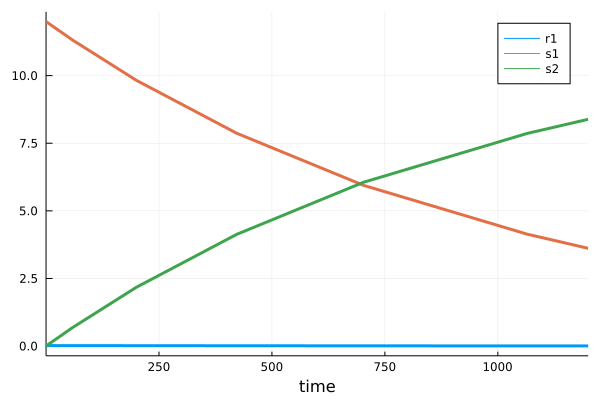
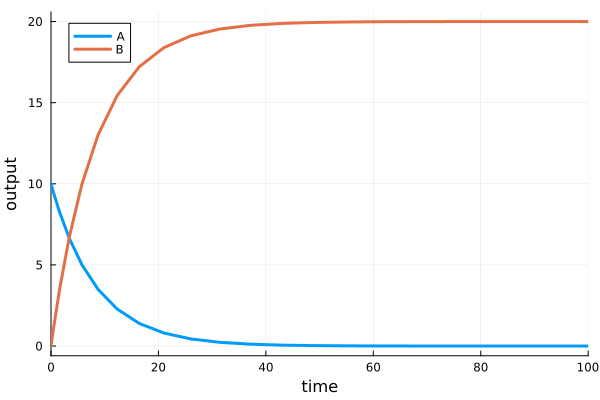
update readme

diff --git a/README.md b/README.md
@@ -7,99 +7,93 @@
 
 # HetaSimulator
 
-**HetaSimulator** is an open-source simulation and parameters estimation (fitting) platform for the [Heta modeling language](https://hetalang.github.io/#/). 
-The main purpose of the package is to establish the linkage between emerging [QSP frameworks](https://en.wikipedia.org/wiki/Quantitative_systems_pharmacology) and fast computational methods (parallel simulations, automatic differentiation, etc.).
+**HetaSimulator** is a Julia‑based simulation engine for models written
+in the [Heta modeling language](https://hetalang.github.io).\
+It is part of the **Heta project** and enables fast
+simulations and analysis using the Julia [SciML](https://sciml.ai/)
+ecosystem.
 
-The latest documentation can be found here: <https://hetalang.github.io/HetaSimulator.jl/stable/>.
+📚 **Full documentation:**\
+<https://hetalang.github.io/HetaSimulator.jl/stable>
 
-See the [ROAD MAP](./roadmap.md) for upcoming updates.
+## Quick start
 
-## Introduction
+The example below creates a simple reaction model and runs a simulation.
 
-Heta language is a domain-specific modeling language (DSL) for dynamic models used in quantitative systems pharmacology (QSP) and systems biology (SB). Heta models can be translated into [variety of formats](https://hetalang.github.io/#/heta-compiler/?id=supported-tools) like Simbiology, Matlab, mrgsolve, DBSolve and many others.
+### 1. Create a project directory
+`
+Create a new directory called **heta-simulation**
 
-This package provides the Julia-based simulation engine for Heta-based models and modeling platforms. Users can simulate QSP models in heta format as well as ODE systems in general form using HetaSimulator without additional tools.
+### 2. Create a model file
 
-Internally HetaSimulator utilizes the features of open-source software like [Julia](https://julialang.org/) and [SciML ecosystem](https://sciml.ai/).
-
-## Installation
-
-It is assumed that you have **Julia** installed. The latest Julia release can be downloaded from [julialang.org](https://julialang.org/downloads/)
-
-To install or update HetaSimulator and heta-compiler run the code below in Julia environment:
-
-```julia
-julia> ]
-pkg> add HetaSimulator
-```
-Notes:
- - Internally HetaSimulator installs Heta compiler as an artifact. 
- - In some MacOS versions, the installation of the package may require Rosetta, use `softwareupdate --install-rosetta` in terminal.
-
-## Basic usage
-
-Create a model in Heta format or use your Heta-based platform.
-Here we will use a simple model with two species and one reaction.
+Create a file **`index.heta`** inside the directory:
 
 ```heta
-// index.heta file in directory "my_project"
-comp1 @Compartment .= 1.5;
+comp1 @Compartment .= 1;
 
-s1 @Species {compartment: comp1, output: true} .= 12;
-s2 @Species {compartment: comp1, output: true} .= 0;
+A @Species { compartment: comp1 } .= 10;
+B @Species { compartment: comp1 } .= 0;
+r1 @Reaction { actors: A => 2B } := k1 * A * comp1;
 
-r1 @Reaction {actors: s1 => s2, output: true} := k1 * s1 * comp1;
-
-k1 @Const = 1e-3;
+k1 @Const = 1.2e-1;
 ```
 
-*To learn more about Heta DSL read [Heta specifications](https://hetalang.github.io/#/specifications/)*
+This model describes a simple reaction converting **A → B** inside a
+compartment.
 
-```julia
+### 3. Create a simulation script
+
+Create a file **`run.jl`**:
+
+``` julia
 using HetaSimulator, Plots
 
-# set the absolute or relative path to the project directory
-platform = load_platform("./my_project")
-# wait for the platform compilation...
+# load platform from the directory
+# index.heta is the default entry point
+platform = load_platform(".")
+model = models(platform)[:nameless]
 
-# get the base Heta model
-model = platform.models[:nameless]
+# create simulation scenario
+scenario = Scenario(model, (0., 100.); observables = [:A, :B])
 
-# single simulation and plot
-results = Scenario(model, (0., 1200.)) |> sim
+# simulate and plot results
+results = sim(scenario)
 plot(results)
 ```
 
-![Plot](https://raw.githubusercontent.com/hetalang/HetaSimulator.jl/master/plot0.png)
+### 4. Run the simulation
 
-```julia
-# convert results to data frame
-df = DataFrame(results)
-...
-9×4 DataFrame
- Row │ t             s1        s2           scope  
-     │ Float64       Float64   Float64      Symbol 
-─────┼─────────────────────────────────────────────
-   1 │    0.0555525  11.9993   0.000666611  ode_
-   2 │    0.611077   11.9927   0.00733069   ode_
+Run the script in Julia. You should see a plot showing the dynamics of species **A** and **B**.
+
+![Simulation result](./plot0.png)
+
+## Installation
+
+Make sure **Julia** is installed: <https://julialang.org/downloads/>
+
+Then install the package in the Julia package manager:
+
+``` julia
+julia> ]
+pkg> add HetaSimulator
 ```
 
-*To read more about available functions, see the [documentation](https://hetalang.github.io/HetaSimulator.jl/stable/)*
+## About Heta
+
+[Heta](https://hetalang.github.io) is a domain‑specific modeling
+language (DSL) for dynamic models used in quantitative systems
+pharmacology (QSP) and systems biology.
+
+HetaSimulator provides the Julia‑based simulation engine for running and
+analyzing these models.
 
 ## Getting help
 
-- Read the [docs](https://hetalang.github.io/HetaSimulator.jl/stable/)
-- Use [Gitter Chatroom](https://gitter.im/hetalang/community?utm_source=readme).
-- Use [Issue Tracker](https://github.com/hetalang/HetaSimulator.jl/issues)
-
-## Contributing
-
-- [Source Code](https://github.com/hetalang/HetaSimulator.jl)
-- [Issue Tracker](https://github.com/hetalang/HetaSimulator.jl/issues)
-- See also contributing in [Heta project](https://hetalang.github.io/#/CONTRIBUTING)
+-   Documentation: <https://hetalang.github.io>
+-   Issue tracker: <https://github.com/hetalang/HetaSimulator.jl/issues>
 
 ## License
 
-This package is distributed under the terms of the [MIT License](./LICENSE).
+This project is distributed under the terms of the **MIT License**.
 
-Copyright 2020-2024, InSysBio LLC
+Copyright © 2020-2026 InSysBio LLC

diff --git a/docs/src/index.md b/docs/src/index.md
@@ -66,7 +66,7 @@ results = Scenario(model, (0., 1200.)) |> sim
 plot(results)
 ```
 
-![Plot](https://raw.githubusercontent.com/hetalang/HetaSimulator.jl/master/plot0.png)
+![Plot](./plot0.png)
 
 ```julia
 # transform results to data frame
@@ -97,14 +97,13 @@ See documentation for detailed overview of **HetaSimulator** types and functions
 ## Getting help
 
 - Read the [docs](https://hetalang.github.io/HetaSimulator.jl/stable/)
-- Use [Gitter Chatroom](https://gitter.im/hetalang/community?utm_source=readme).
 - Use [Issue Tracker](https://github.com/hetalang/HetaSimulator.jl/issues)
 
 ## License
 
 This package is distributed under the terms of the **MIT License**.
 
-Copyright 2020-2024, InSysBio LLC
+Copyright 2020-2026, InSysBio LLC
 
 ## Authors and history
 
